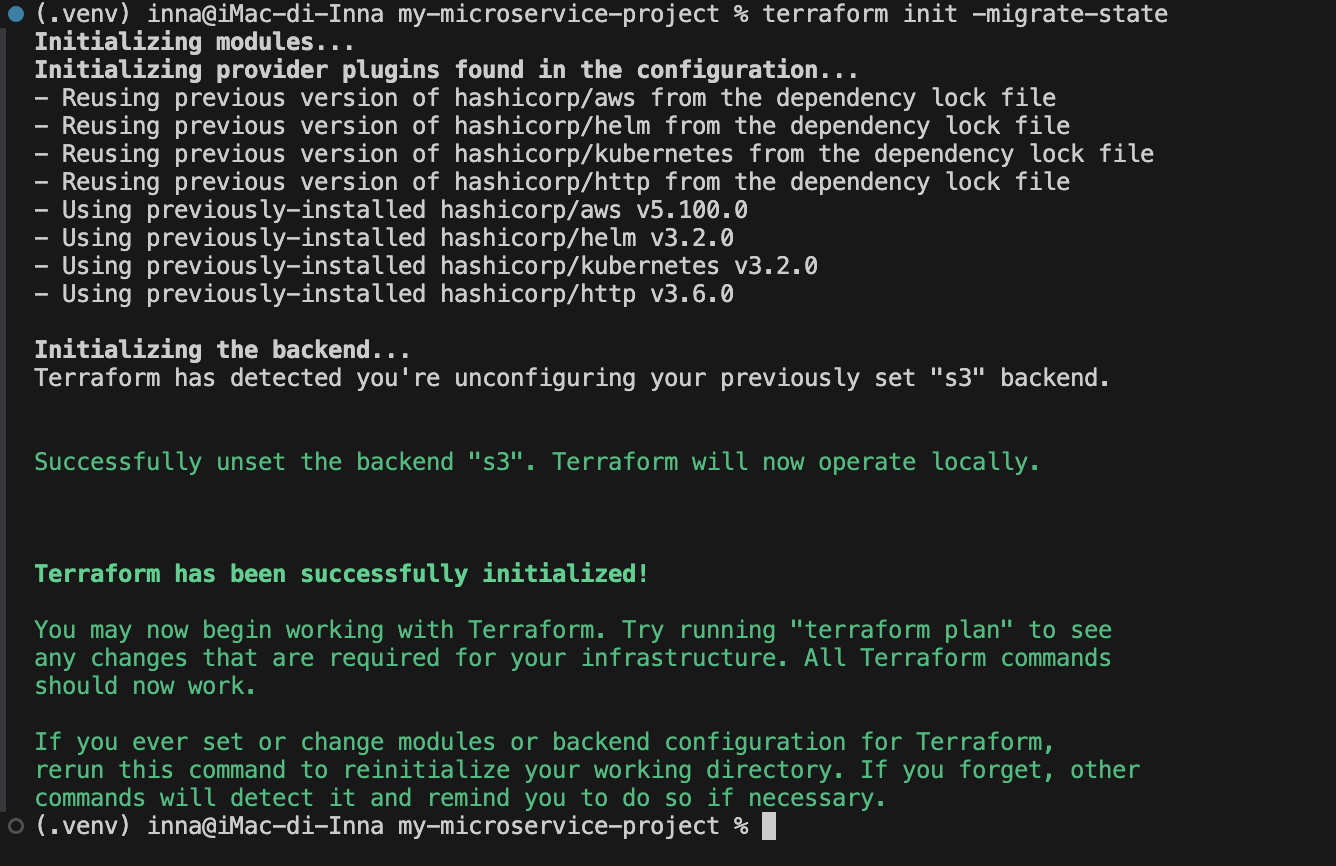
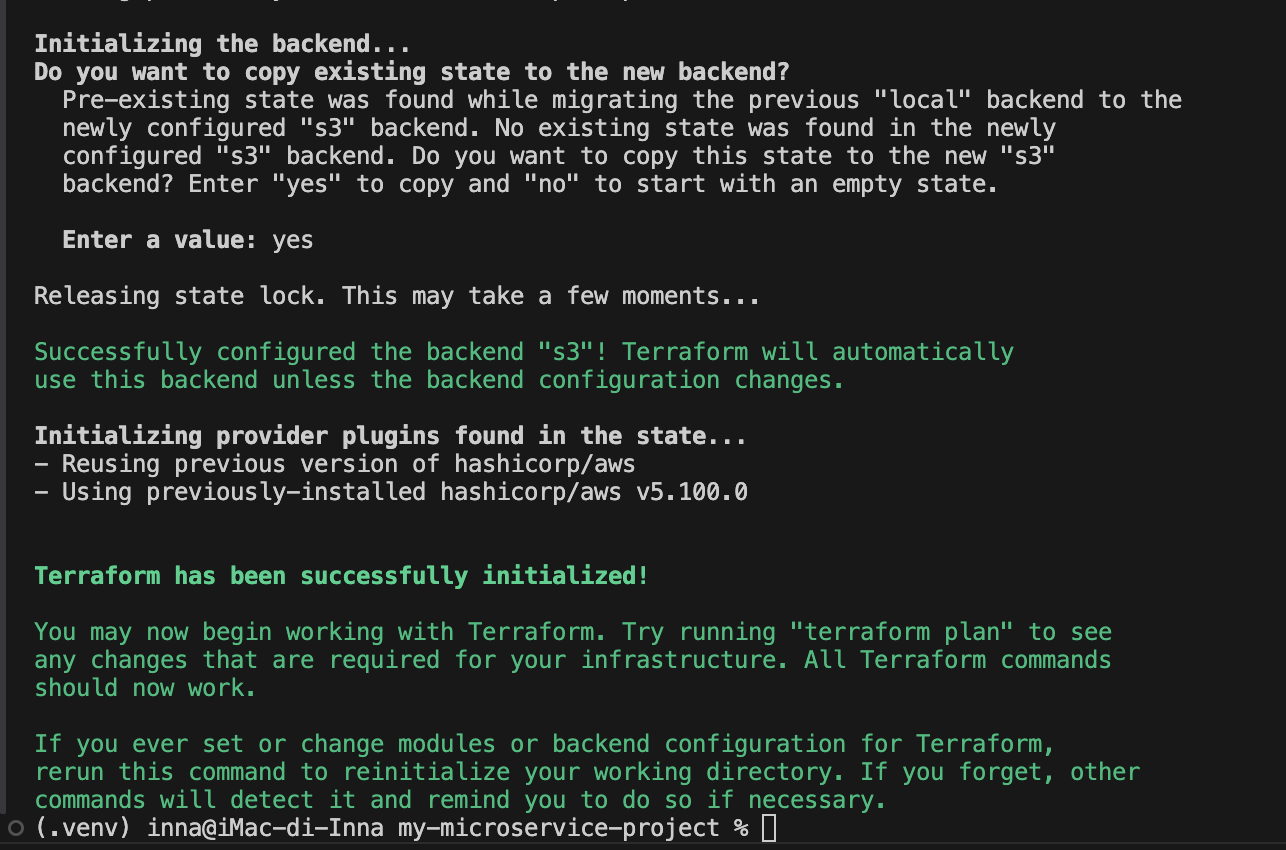
Refactor code structure for improved readability and maintainability

diff --git a/README.md b/README.md
@@ -1,8 +1,8 @@
-# Lesson DB Module: Flexible Terraform RDS Module (Aurora + PostgreSQL)
+# Final Project: DevOps Infrastructure on AWS (EKS + CI/CD + RDS/Aurora)
 
-Universal Terraform module that provisions either a standard **AWS RDS instance** (PostgreSQL / MySQL) or an **Aurora cluster** from a single set of variables, controlled by the `use_aurora` flag.
+Full DevOps infrastructure on AWS provisioned with Terraform: VPC, EKS, ECR, Jenkins + ArgoCD (CI/CD), RDS/Aurora, and monitoring (Prometheus + Grafana).
 
-Built on top of the CI/CD infrastructure from Lesson 8-9 (Jenkins + ArgoCD on EKS).
+This module provisions either a standard **AWS RDS instance** (PostgreSQL / MySQL) or an **Aurora cluster** from a single set of variables, controlled by the `use_aurora` flag.
 
 ---
 
@@ -264,6 +264,7 @@ The first instance is always the writer; all subsequent ones become readers.
 | **jenkins** | Jenkins via Helm; JCasC auto-creates credentials and seed job; IRSA for Kaniko → ECR |
 | **argo_cd** | ArgoCD via Helm; repo credentials via Kubernetes Secret; Application CRDs via local chart |
 | **rds** | Flexible module — standard RDS or Aurora, with subnet group, security group, parameter group |
+| **monitoring** | kube-prometheus-stack via Helm (Prometheus + Grafana + Alertmanager); metrics-server EKS add-on backs the Django HPA |
 
 ---
 
@@ -304,7 +305,7 @@ terraform apply -target=module.vpc -target=module.rds -auto-approve
 
 ```bash
 terraform apply -target=module.vpc -target=module.ecr -target=module.eks
-aws eks update-kubeconfig --region us-west-2 --name lesson-db-module-eks
+aws eks update-kubeconfig --region us-west-2 --name final-project-eks
 kubectl get nodes
 
 # Set bootstrap_mode = false in terraform.tfvars, then:
@@ -314,12 +315,12 @@ terraform apply
 
 ---
 
-## CI/CD Flow (from Lesson 8-9)
+## CI/CD Flow
 
 ```
 Developer
     │
-    │  git push (lesson-db-module)
+    │  git push (final-project)
     ▼
 GitHub (my-microservice-project)
     │
@@ -344,6 +345,22 @@ Jenkins (running inside EKS)
 
 ---
 
+## Monitoring & Autoscaling
+
+Prometheus, Grafana and Alertmanager are deployed via the `kube-prometheus-stack` Helm chart (module `monitoring`). Node/pod metrics come from `node-exporter` and `kube-state-metrics`, both bundled with the chart. The `metrics-server` EKS add-on (module `eks`) exposes the Metrics API that the Django `HorizontalPodAutoscaler` (`charts/django-app/templates/hpa.yaml`) reads CPU utilization from to scale pods automatically.
+
+```bash
+# Grafana (default user: admin, password from terraform.tfvars)
+kubectl port-forward svc/kube-prometheus-stack-grafana 3000:80 -n monitoring
+
+# Prometheus
+kubectl port-forward svc/kube-prometheus-stack-prometheus 9090:9090 -n monitoring
+```
+
+Open http://localhost:3000, sign in, and check the built-in "Kubernetes / Compute Resources" dashboards for cluster and pod metrics.
+
+---
+
 ## Security Notes
 
 - RDS security group restricts access to VPC CIDR only (`10.0.0.0/16`)
@@ -361,7 +378,7 @@ Jenkins (running inside EKS)
 ## Teardown
 
 ```bash
-# Destroy only RDS (keep VPC for next lessons):
+# Destroy only RDS (keep VPC for further work):
 terraform destroy -target=module.rds -auto-approve
 
 # Destroy everything:
